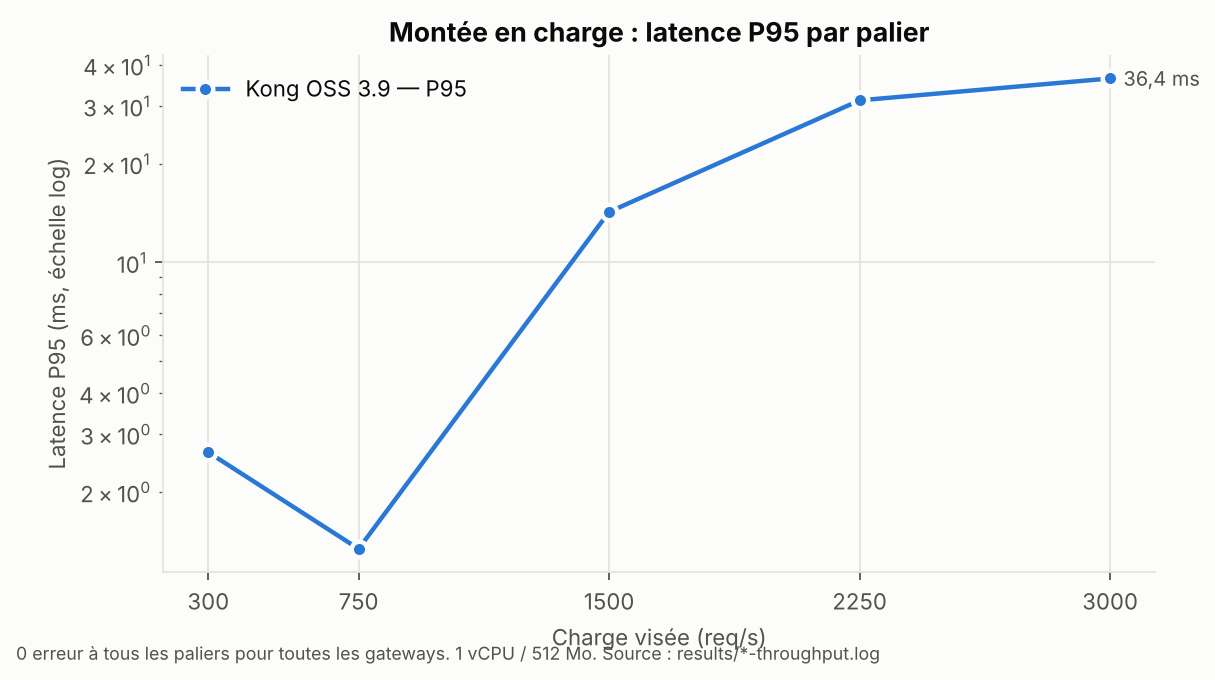
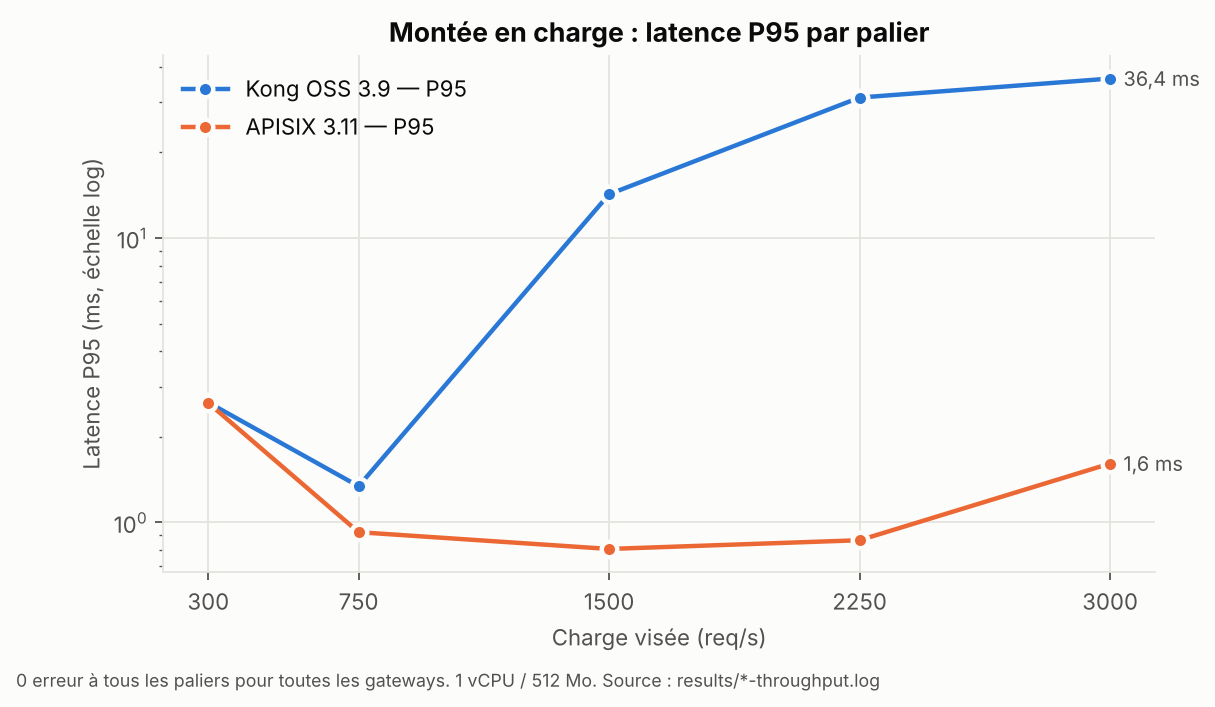
Graphiques Kong vs APISIX, intégrés aux fiches E3/E4/E5 ; baseline alignée sur les fichiers
Claude-Session: https://claude.ai/code/session_015oSHggp76iqGVyGmTtzSEn

diff --git a/scripts/graphs.py b/scripts/graphs.py
@@ -177,7 +177,7 @@ def chart_throughput():
     ax.set_xticks(sorted(next(iter(data.values()))))
     ax.set_title("Montée en charge : latence P95 par palier")
     ax.legend(loc="upper left")
-    fig.text(0.01, -0.02, "0 erreur à tous les paliers pour toutes les gateways. 1 vCPU / 512 Mo. Source : results/*-throughput.log",
+    fig.text(0.01, -0.06, "0 erreur à tous les paliers pour toutes les gateways. 1 vCPU / 512 Mo. Source : results/*-throughput.log",
              fontsize=8, color=INK2)
     save(fig, "03-debit-p95-paliers.png", "Latence P95 par palier de charge")
 
@@ -214,12 +214,14 @@ def chart_resources():
         a1.plot(t, [r[1] for r in rows], color=COLOR[g], lw=2, label=LABEL[g])
         a2.plot(t, [r[2] for r in rows], color=COLOR[g], lw=2, label=LABEL[g])
     a1.axhline(100, color=INK2, lw=1, ls="--")
-    a1.annotate("limite 1 vCPU", (0, 100), xytext=(2, 3), textcoords="offset points", fontsize=8, color=INK2)
+    a1.annotate("limite 1 vCPU", (1, 100), xycoords=("axes fraction", "data"), xytext=(-2, 3),
+                textcoords="offset points", ha="right", fontsize=8, color=INK2)
     a2.axhline(512, color=INK2, lw=1, ls="--")
-    a2.annotate("limite 512 Mo", (0, 512), xytext=(2, -11), textcoords="offset points", fontsize=8, color=INK2)
+    a2.annotate("limite 512 Mo", (1, 512), xycoords=("axes fraction", "data"), xytext=(-2, -11),
+                textcoords="offset points", ha="right", fontsize=8, color=INK2)
     a1.set(title="CPU pendant la montée en charge", xlabel="Temps (s)", ylabel="CPU (%)", ylim=(0, 125))
     a2.set(title="Mémoire pendant la montée en charge", xlabel="Temps (s)", ylabel="RAM (Mo)", ylim=(0, 560))
-    a1.legend(loc="upper left")
+    a2.legend(loc="center right")
     fig.text(0.01, -0.03, "docker stats échantillonné en continu (≈ toutes les 2-3 s) pendant throughput.js. Source : results/<gw>-stats-*.csv (le plus récent)",
              fontsize=8, color=INK2)
     fig.tight_layout()
@@ -336,7 +338,7 @@ def chart_status_timeline(scenario, endpoint_title, ev_start, ev_end, fname, tit
             ax.axvspan(w[0], w[1] if w[1] else w[0] + 30, color=INK2, alpha=0.10, lw=0, zorder=0)
             ax.annotate("panne injectée", (w[0], ax.get_ylim()[1]), xytext=(3, 3), annotation_clip=False, textcoords="offset points",
                         fontsize=8, color=INK2)
-        ax.set_title(LABEL[g], loc="left", fontsize=11)
+        ax.set_title(LABEL[g], loc="left", fontsize=11, pad=16)
         ax.set_ylabel("Réponses / 5 s")
         ax.grid(axis="x", visible=False)
     axes[0, 0].legend(loc="lower right", bbox_to_anchor=(1, 1.02), ncol=3, fontsize=8)
@@ -369,7 +371,7 @@ def chart_failover():
             ax.axvspan(w[0], w[1] if w[1] else w[0] + 31, color=INK2, alpha=0.10, lw=0, zorder=0)
             ax.annotate("catalog-2 arrêté", (w[0], ax.get_ylim()[1]), xytext=(3, 3), annotation_clip=False, textcoords="offset points",
                         fontsize=8, color=INK2)
-        ax.set_title(LABEL[g], loc="left", fontsize=11)
+        ax.set_title(LABEL[g], loc="left", fontsize=11, pad=16)
         ax.set_ylabel("Réponses / 5 s")
         ax.grid(axis="x", visible=False)
     axes[0, 0].legend(loc="lower right", bbox_to_anchor=(1, 1.02), ncol=3, fontsize=8)

diff --git a/docs/protocoles/E4-latence-debit.md b/docs/protocoles/E4-latence-debit.md
@@ -24,10 +24,10 @@
 
 | | Direct | Kong | APISIX | Traefik | SCG |
 |---|---|---|---|---|---|
-| P50 catalog (ms) | 0,77 | 1,62 | 1,51 | | |
+| P50 catalog (ms) | 0,75 | 1,62 | 1,51 | | |
 | P95 catalog (ms) | 2,10 | 3,70 | 2,68 | | |
 | P99 catalog (ms) | 4,61 | 6,95 | 5,38 | | |
-| Surcoût P95 catalog (ms) | — | +1,60 (P50 +0,85 ; P99 +2,34) | +0,58 (P50 +0,74 ; P99 +0,77) | | |
+| Surcoût P95 catalog (ms) | — | +1,60 (P50 +0,87 ; P99 +2,34) | +0,58 (P50 +0,76 ; P99 +0,77) | | |
 | P95 orders avec JWT (ms) | — | 3,58 (P50 1,61) | 3,67 (P50 2,04) | | |
 | RPS max soutenu | — | ≥ 3 000 sans erreur (CPU ~100 %, P95 36 ms) | ≥ 3 000 sans erreur (CPU ~53 %, P95 1,6 ms) | | |
 | CPU au palier max (%) | — | 97 (limite 100) | 53 | | |
@@ -64,7 +64,7 @@ Lecture : médiane catalog P50 1,51 / P95 2,68 / P99 5,38 ms, soit un surcoût P
 | Run | Cible | P50 (ms) | P95 (ms) | P99 (ms) | Erreurs | dropped_iterations | Fichier |
 |---|---|---|---|---|---|---|---|
 | 1 | direct | 0,77 | 2,10 | 4,61 | 0 % | 0 | `direct-latency-1.log` |
-| 2 | direct | 0,80 | 2,16 | 5,22 | 0 % | 0 | `direct-latency-2.log` |
+| 2 | direct | 0,75 | 2,20 | 5,18 | 0 % | 0 | `direct-latency-2.log` |
 | 3 | direct | 0,75 | 2,10 | 4,16 | 0 % | 0 | `direct-latency-3.log` |
 | échauffement | kong (30 s) | 1,30 | 3,39 | 6,81 | 0 % | 0 | jeté |
 | 1 | kong | 1,55 | 3,55 | 5,65 | 0 % | 0 | `kong-latency-1.log` |
@@ -131,6 +131,16 @@ Lecture : Kong sert **3 000 req/s sans erreur sur 1 vCPU**, mais il est **proche
 Itérations perdues : 54 sur 265 734 (0,02 %). Pic conteneur : ~120 % CPU (limite à vérifier, cf. ci-dessous), ~206 Mo RAM / 512.
 
 Lecture : 0 erreur et ≈ 100 % servi à tous les paliers → **Kong soutient 3 000 req/s** (P95 25,7 ms). Les queues anormales aux paliers **bas** (750 : P95 300 ms) ne suivent pas la charge : pic transitoire côté hôte (577 VU occupés simultanément = blocage d'environ 0,9 s de toutes les requêtes en vol). À signaler comme bruit de mesure, pas comme limite de Kong.
+
+**Graphiques**
+
+![Latence](../graphs/01-latence.png)
+
+![Coût JWT](../graphs/02-cout-jwt.png)
+
+![Débit P95 par palier](../graphs/03-debit-p95-paliers.png)
+
+![CPU et RAM](../graphs/04-cpu-ram.png)
 
 **Limites de validité** — Docker sur un poste de dev ≠ production ; k6 partage le CPU de l'hôte ; pas de TLS ; résultats à relire en *relatif* entre solutions, pas en absolu.
 

diff --git a/docs/05-journal-tests.md b/docs/05-journal-tests.md
@@ -22,7 +22,7 @@ Une ligne par exécution, y compris les runs ratés (ils font partie de la déma
 | 02/11 09:34 | E3 | kong | `ratelimit.js` (30 s) | `results/kong-ratelimit.log` | greedy 10,27/s, polite 0 refus, burst 11,4/rafale | |
 | 02/11 09:35 | E4 | direct | `latency.js` 200 req/s 60 s | `results/direct-latency-1.log` | P50 0,77 / P95 2,10 / P99 4,61 ms, 0 % erreur | Run 1/3 |
 | | | | | | | |
-| 02/11 ~09:40 | E4 | direct | `latency.js` | `results/direct-latency-2.log` | P50 0,80 / P95 2,16 / P99 5,22 ms | Run 2/3 ; run 3 à refaire (commentaire `#` collé dans zsh) |
+| 02/11 ~09:40 | E4 | direct | `latency.js` | `results/direct-latency-2.log` | P50 0,75 / P95 2,20 / P99 5,18 ms (valeurs du fichier ; un run à 0,80 ms relevé à l'écran n'a pas été conservé) | Run 2/3 ; run 3 à refaire (commentaire `#` collé dans zsh) |
 | 02/11 ~09:42 | E4 | kong | `latency.js DURATION=30s` | — | P95 3,39 ms | Échauffement, jeté |
 | 02/11 ~09:43 | E4 | kong | `latency.js` | `results/kong-latency-1.log` | P50 1,55 / P95 3,55 / P99 5,65 ms | Propre |
 | 02/11 ~09:45 | E4 | kong | `latency.js` | `results/kong-latency-2.log` | P50 1,63 / P95 15,48 / P99 120 ms | 118 dropped_iterations → hôte saturé, à rejouer |

diff --git a/docs/protocoles/E3-rate-limiting.md b/docs/protocoles/E3-rate-limiting.md
@@ -33,4 +33,6 @@
 
 **Observations APISIX (02/11, `results/apisix-ratelimit.log`)** — Quota tenu **exactement** (300 acceptées en 30 s) et exactement 10 par rafale, là où Kong en laissait passer 11,4. Les deux sont annoncés « fenêtre fixe », mais la fenêtre de Kong est calée sur l'horloge (une rafale à cheval sur deux secondes consomme deux fenêtres), alors que le compteur d'APISIX démarre vraisemblablement à la première requête de la clé (compteur avec expiration) : une rafale ne chevauche pas deux fenêtres. Hypothèse à vérifier dans la doc / le code du plugin `limit-count`.
 
+![Rate limiting Kong vs APISIX](../graphs/05-rate-limiting.png)
+
 **Décision** — *à compléter* (précision vs dépendance à Redis ; impact en HA).

diff --git a/docs/protocoles/E5-resilience.md b/docs/protocoles/E5-resilience.md
@@ -52,4 +52,8 @@ Conséquence pour la décision : avec Kong OSS, tout upstream doit avoir un heal
 
 Le plugin `api-breaker` ouvre le circuit après 3 échecs, laisse passer quelques requêtes de test (les 200/500 isolés pendant la panne = demi-ouverture), puis **se referme moins de 10 s après le retour du backend**. Erreurs vues par le client : 24 % du run, toutes concentrées dans la fenêtre de panne. Comparaison Kong (même scénario) : 99,9 % d'erreurs, **aucune récupération**.
 
+![Circuit breaker](../graphs/06-circuit-breaker.png)
+
+![Failover](../graphs/07-failover-catalogue.png)
+
 **Décision** — *à compléter*. Question du sujet : *comment une erreur backend se répercute-t-elle sur le client ?*

diff --git a/README.md b/README.md
@@ -10,6 +10,7 @@ POC reproductible comparant **Kong Gateway OSS**, **Apache APISIX**, **Traefik P
 | [docs/03-matrice-decision.md](docs/03-matrice-decision.md) | Pondération, barème, matrice à remplir |
 | [docs/04-note-decision.md](docs/04-note-decision.md) | Note de décision (brouillon à compléter avec les mesures) |
 | [docs/05-journal-tests.md](docs/05-journal-tests.md) | Journal des exécutions |
+| [docs/graphs/](docs/graphs/README.md) | Graphiques générés depuis `results/` (`python3 scripts/graphs.py`) |
 
 ## Prérequis
 
